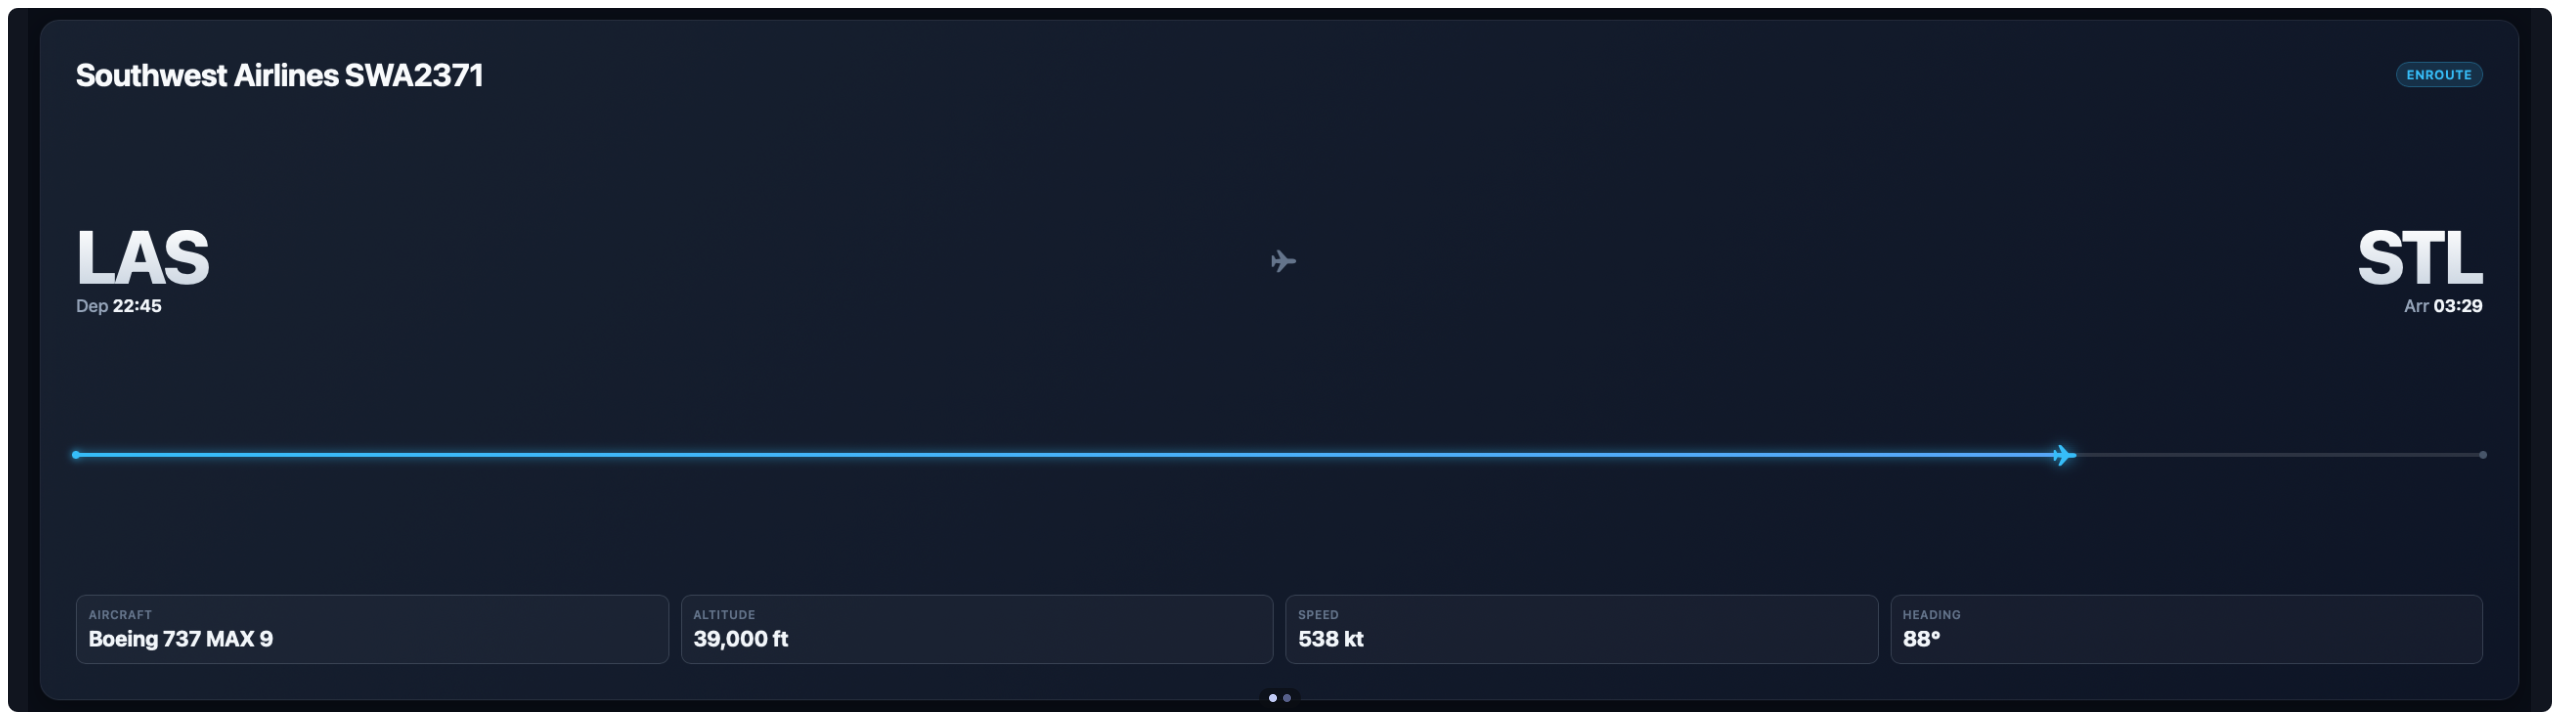
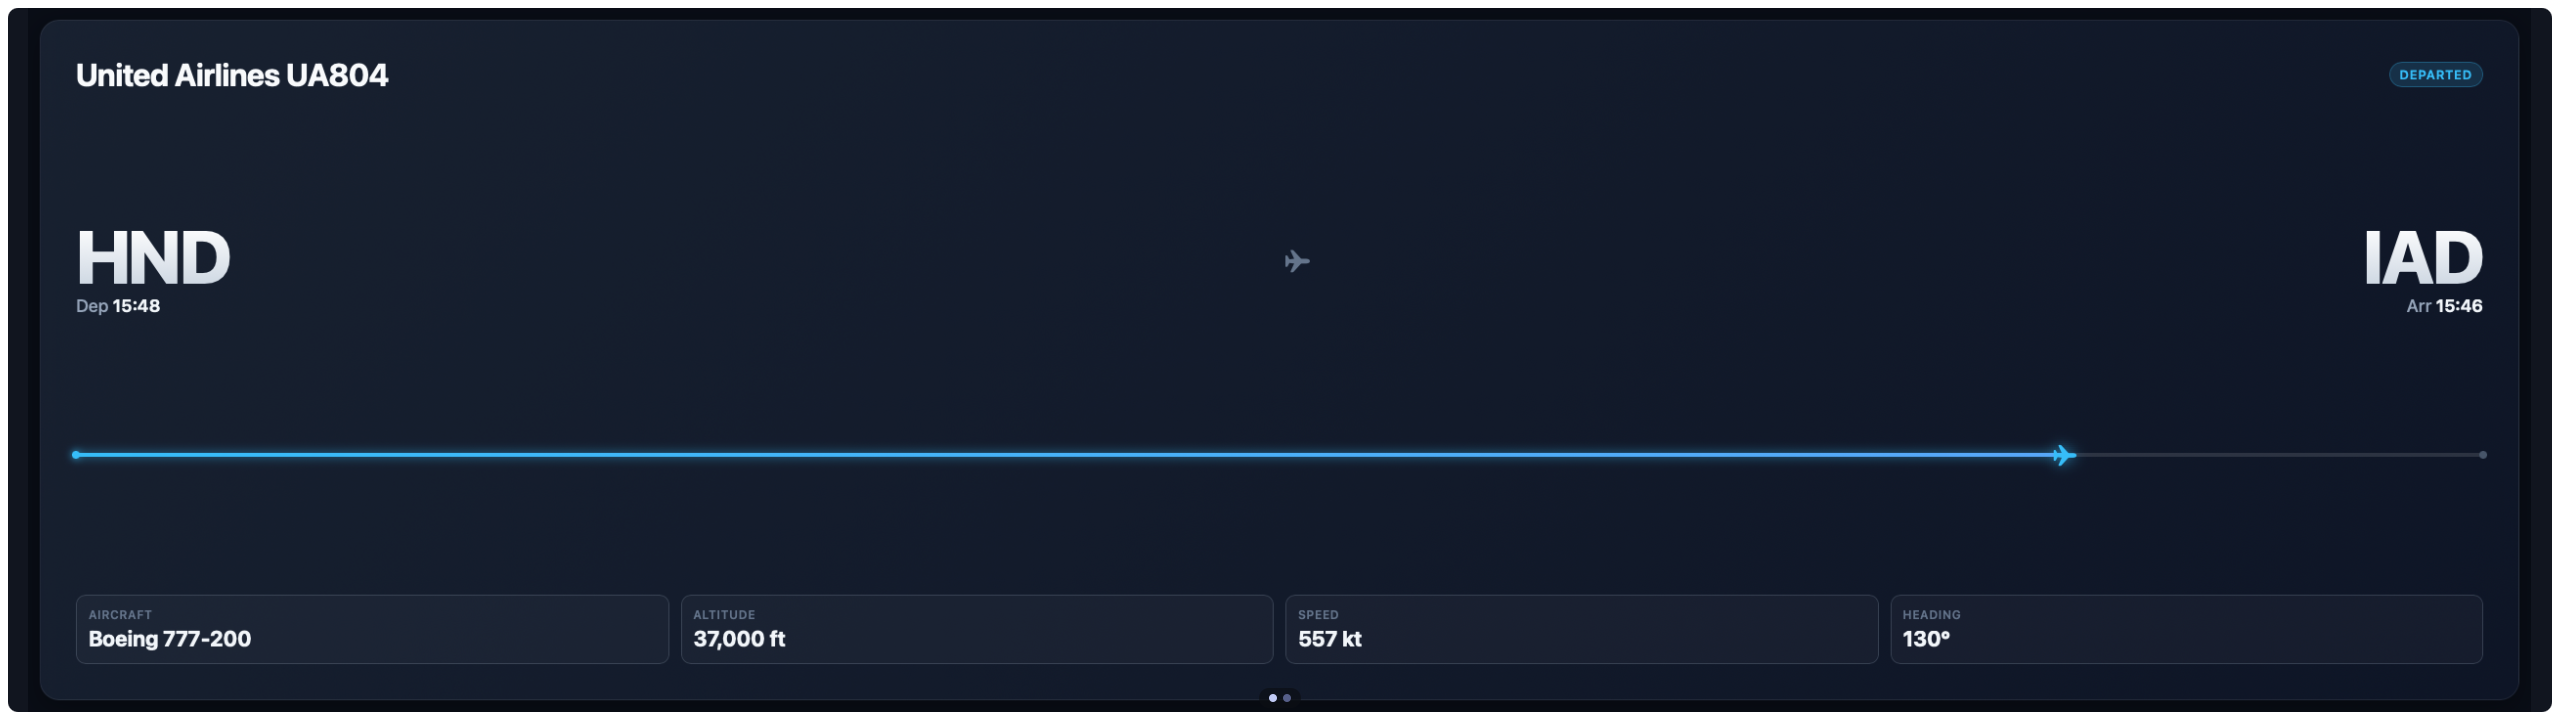
Align Flight Tracker with cockpit design system
Removed the only real (non-canvas-simulated) CSS glassmorphism in
this repo: backdrop-filter blur, box-shadow, and translucent gradient
fills on .card, plus glow shadows on the progress bar fill/dot/plane
(the last one already caught by the design detector's dark-glow rule).
Replaced with a flat, opaque #11151f cockpit cell.

Removed gradient text on the departure/arrival IATA codes (a
universal craft-floor ban, independent of any project palette) in
favor of solid color at the existing weight/size.

Telemetry values (altitude, speed, heading, times) now set in SF
Mono per the Mono Numerals Rule. .stat-value and .error-msg both
clamp to a 14px floor even at the widget's densest 4-flight layout,
where they previously shrank to ~11px.

Swapped the default accentColor from #38bdf8 (visually close to the
reserved canopy Signal Cyan) to Panel Indigo #7aa2f7 — the setting
itself stays fully user-configurable, precedented by Nixie Clock's
shipped user-pickable glow color; only the out-of-box default moved.
Removed a dead `canvas` manifest field left over from a Canvas2D
sibling widget (this one has always been pure DOM/CSS).

diff --git a/com.vardek.flight-tracker/index.html b/com.vardek.flight-tracker/index.html
@@ -7,11 +7,12 @@
 
   body {
     background: #090d16;
-    color: #f1f5f9;
-    font-family: -apple-system, BlinkMacSystemFont, 'SF Pro Display', 'Segoe UI', Roboto, sans-serif;
+    color: #e6e9ef;
+    font-family: -apple-system, BlinkMacSystemFont, 'Helvetica Neue', sans-serif;
     height: 100vh;
     overflow: hidden;
-    --accent: #38bdf8;
+    --accent: #7aa2f7; /* Panel Indigo default — still user-overridable via Admin */
+    --mono: ui-monospace, 'SF Mono', SFMono-Regular, Menlo, monospace;
   }
 
   #cards {
@@ -37,11 +38,9 @@
     flex-direction: column;
     justify-content: space-between;
     overflow: hidden;
-    background: linear-gradient(135deg, rgba(30, 41, 59, 0.7) 0%, rgba(15, 23, 42, 0.8) 100%);
-    backdrop-filter: blur(12px);
+    background: #11151f; /* flat, opaque cockpit cell — no gradient, no blur, no shadow */
     border: 1px solid rgba(255, 255, 255, 0.08);
     border-radius: calc(var(--scale) * 20px);
-    box-shadow: 0 8px 32px 0 rgba(0, 0, 0, 0.37);
   }
 
   .header-row {
@@ -53,7 +52,7 @@
   .title {
     font-size: calc(var(--scale) * 32px);
     font-weight: 700;
-    color: #f8fafc;
+    color: #e6e9ef;
     letter-spacing: -0.02em;
     display: flex;
     align-items: center;
@@ -89,7 +88,7 @@
 
   .route-plane {
     font-size: calc(var(--scale) * 28px);
-    color: #64748b;
+    color: #565f89;
     transform: rotate(0deg);
     align-self: center;
     margin-bottom: calc(var(--scale) * 18px);
@@ -100,20 +99,19 @@
     font-weight: 800;
     line-height: 0.9;
     letter-spacing: -0.03em;
-    background: linear-gradient(180deg, #ffffff 0%, #cbd5e1 100%);
-    -webkit-background-clip: text;
-    -webkit-text-fill-color: transparent;
+    color: #e6e9ef; /* solid — emphasis comes from weight/size, not gradient text */
   }
 
   .time {
     font-size: calc(var(--scale) * 18px);
-    color: #94a3b8;
+    color: #8089a6;
     font-weight: 500;
     margin-top: calc(var(--scale) * 6px);
   }
 
   .time span {
-    color: #f1f5f9;
+    font-family: var(--mono);
+    color: #e6e9ef;
     font-weight: 600;
   }
 
@@ -134,9 +132,8 @@
     top: 0;
     left: 0;
     height: 100%;
-    background: linear-gradient(90deg, var(--accent), color-mix(in srgb, var(--accent) 55%, #818cf8));
+    background: var(--accent); /* flat fill — no gradient, no glow */
     border-radius: 99px;
-    box-shadow: 0 0 calc(var(--scale) * 10px) color-mix(in srgb, var(--accent) 70%, transparent);
   }
 
   .bar-dot {
@@ -149,16 +146,15 @@
     z-index: 2;
   }
 
-  .bar-dot.start { background: var(--accent); box-shadow: 0 0 calc(var(--scale) * 8px) var(--accent); }
-  .bar-dot.end { background: #475569; }
+  .bar-dot.start { background: var(--accent); }
+  .bar-dot.end { background: #565f89; }
 
   .bar-plane {
     position: absolute;
     top: 50%;
     transform: translate(-50%, -50%) rotate(0deg);
     font-size: calc(var(--scale) * 26px);
-    color: var(--accent);
-    text-shadow: 0 0 14px color-mix(in srgb, var(--accent) 70%, transparent);
+    color: var(--accent); /* flat — no glow */
     z-index: 3;
     transition: left 0.5s ease;
   }
@@ -171,24 +167,25 @@
   }
 
   .stat-card {
-    background: rgba(255, 255, 255, 0.03);
-    border: 1px solid rgba(148, 163, 184, 0.25);
+    background: #0b0e14;
+    border: 1px solid rgba(255, 255, 255, 0.08);
     border-radius: calc(var(--scale) * 10px);
     padding: calc(var(--scale) * 12px);
   }
 
   .stat-label {
-    font-size: calc(var(--scale) * 12px);
-    color: #64748b;
+    font-size: max(11px, calc(var(--scale) * 12px));
+    color: #565f89;
     font-weight: 600;
     letter-spacing: 0.05em;
     margin-bottom: calc(var(--scale) * 4px);
   }
 
   .stat-value {
-    font-size: calc(var(--scale) * 22px);
-    font-weight: 700;
-    color: #f1f5f9;
+    font-family: var(--mono); /* live telemetry — Mono Numerals Rule */
+    font-size: max(14px, calc(var(--scale) * 22px)); /* Fourteen-Pixel Floor, even at max density */
+    font-weight: 600;
+    color: #e6e9ef;
     white-space: nowrap;
     overflow: hidden;
     text-overflow: ellipsis;
@@ -200,7 +197,7 @@
     justify-content: center;
     height: 100%;
     font-size: calc(var(--scale) * 22px);
-    color: #64748b;
+    color: #565f89;
     font-weight: 500;
   }
 
@@ -208,8 +205,8 @@
     position: absolute;
     bottom: calc(var(--scale) * 12px);
     left: calc(var(--scale) * 36px);
-    font-size: calc(var(--scale) * 13px);
-    color: #f87171;
+    font-size: max(14px, calc(var(--scale) * 13px));
+    color: #f7768e; /* Panel Red — genuine error state */
     font-weight: 500;
   }
 </style>
@@ -226,7 +223,7 @@
     return str.replace(/&/g, "&amp;").replace(/</g, "&lt;").replace(/>/g, "&gt;").replace(/"/g, "&quot;");
   }
 
-  const defaults = { flightCodes: "UA804", accentColor: "#38bdf8" };
+  const defaults = { flightCodes: "UA804", accentColor: "#7aa2f7" };
   let cfg = Object.assign({}, defaults);
   let codes = [];
   let flightsByCode = {};

diff --git a/com.vardek.flight-tracker/README.md b/com.vardek.flight-tracker/README.md
@@ -25,7 +25,7 @@ getting a proportionally bigger card (and bigger text) the fewer there are:
 | Key               | Type   | Default   | Description                                    |
 |-------------------|--------|-----------|--------------------------------------------------|
 | `flightCodes`     | string | `UA804`   | Comma-separated flight numbers (IATA or ICAO), up to 4 |
-| `accentColor`     | color  | `#38bdf8` | Accent color for the status badge, progress bar, and plane marker |
+| `accentColor`     | color  | `#7aa2f7` | Accent color for the status badge, progress bar, and plane marker |
 | `AERODATABOX_KEY` | secret | —         | Your AeroDataBox API key (via RapidAPI)          |
 
 ## Getting a free API key
